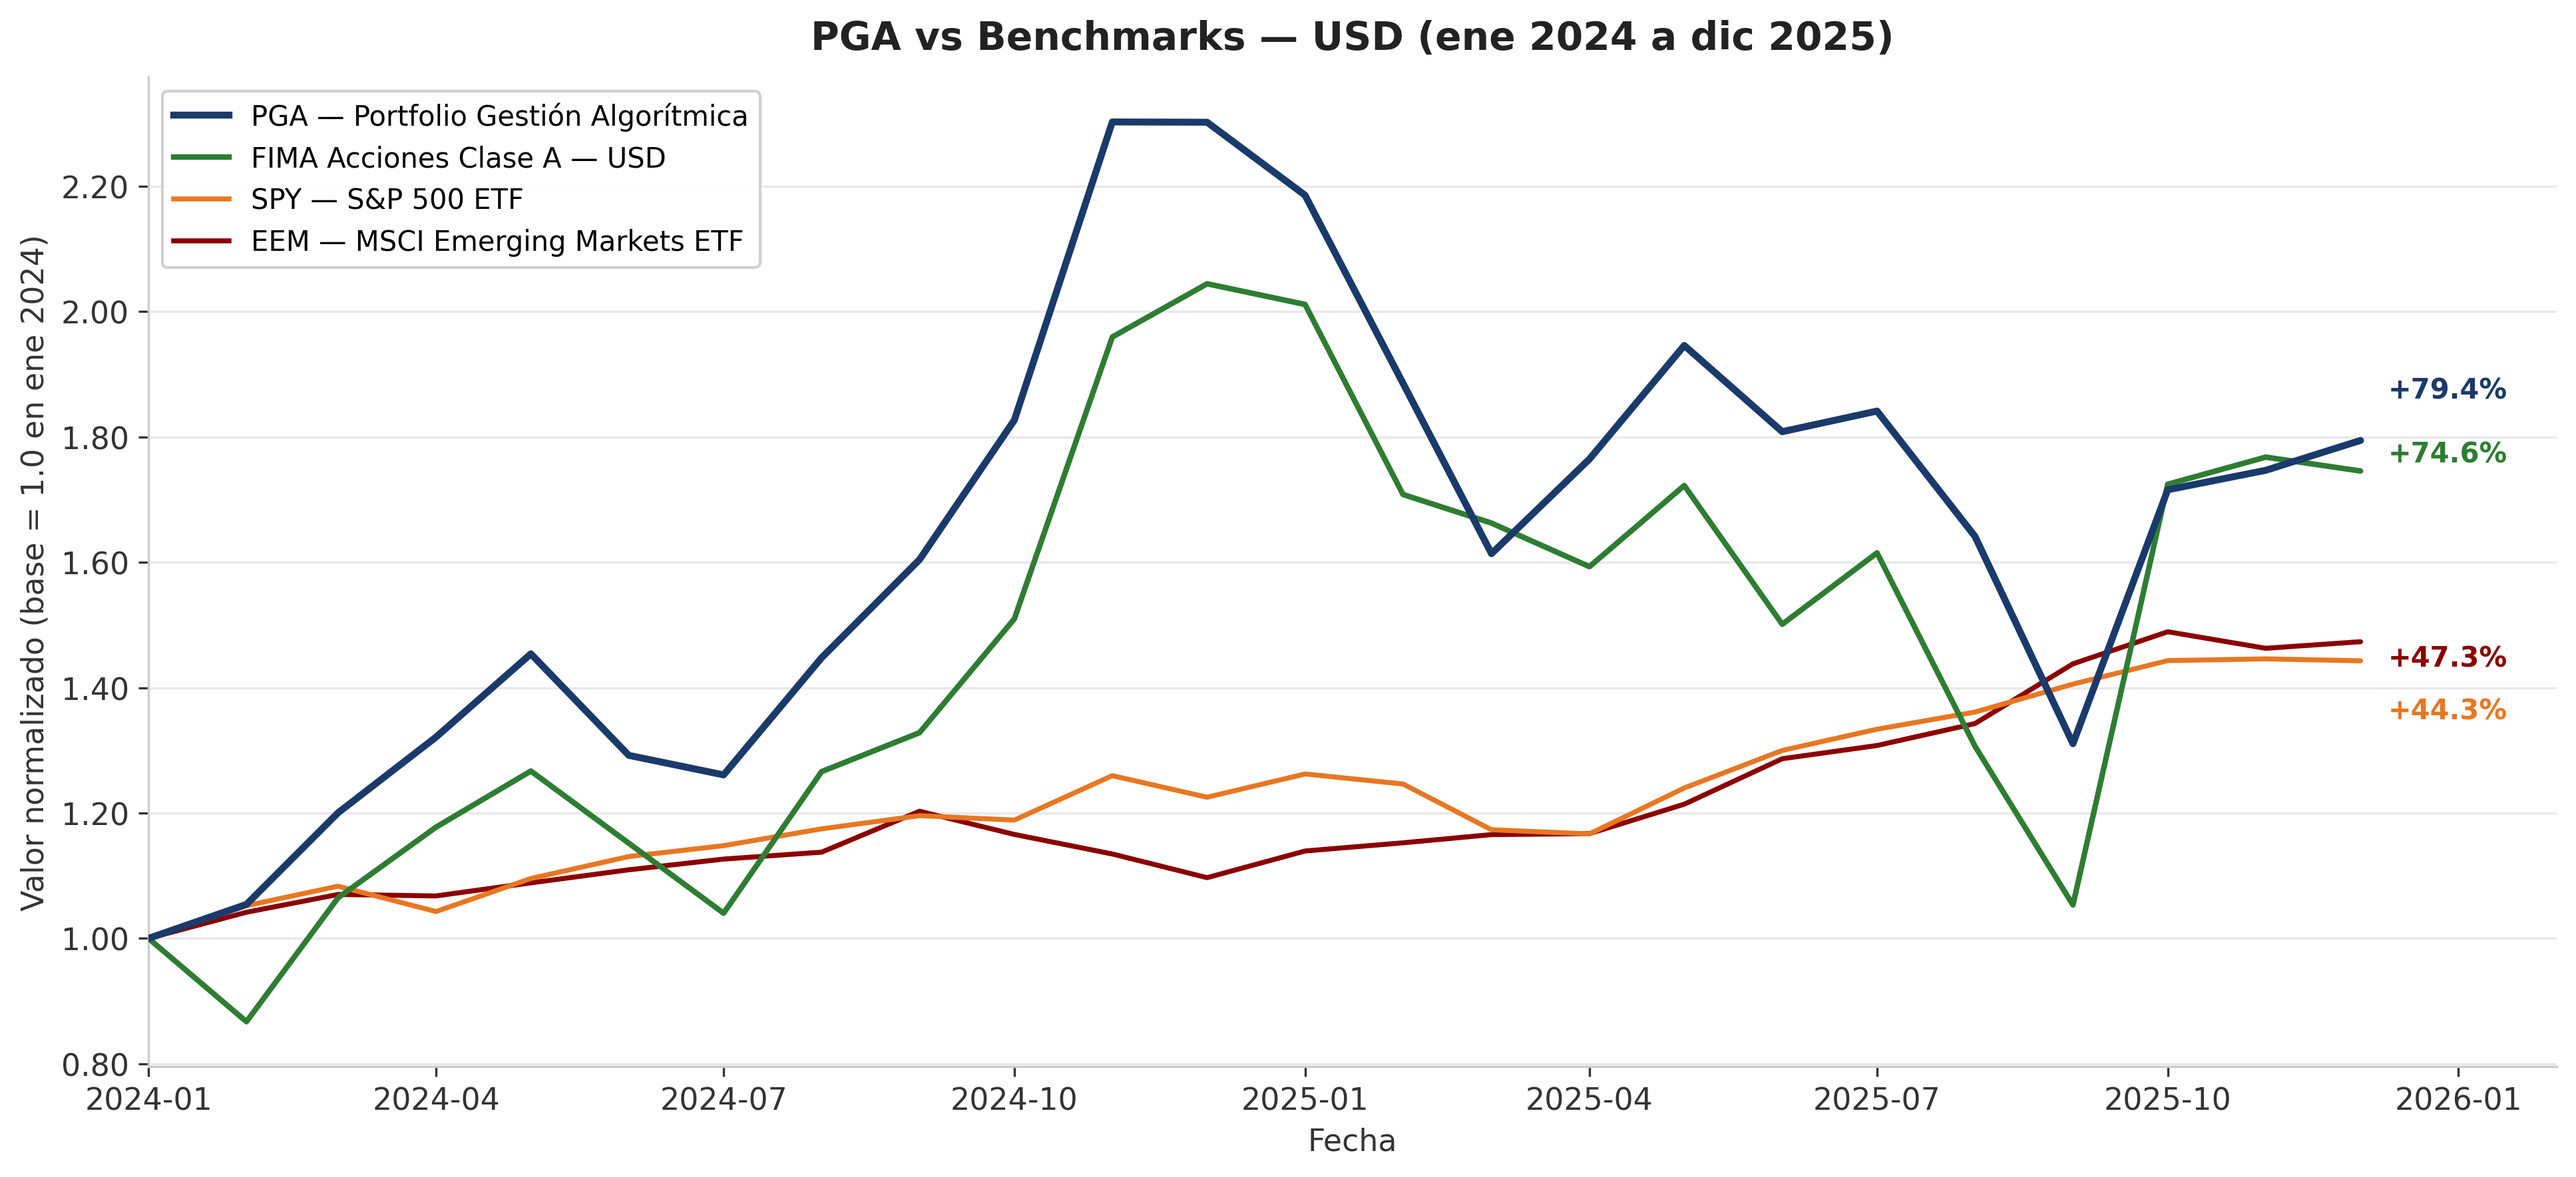
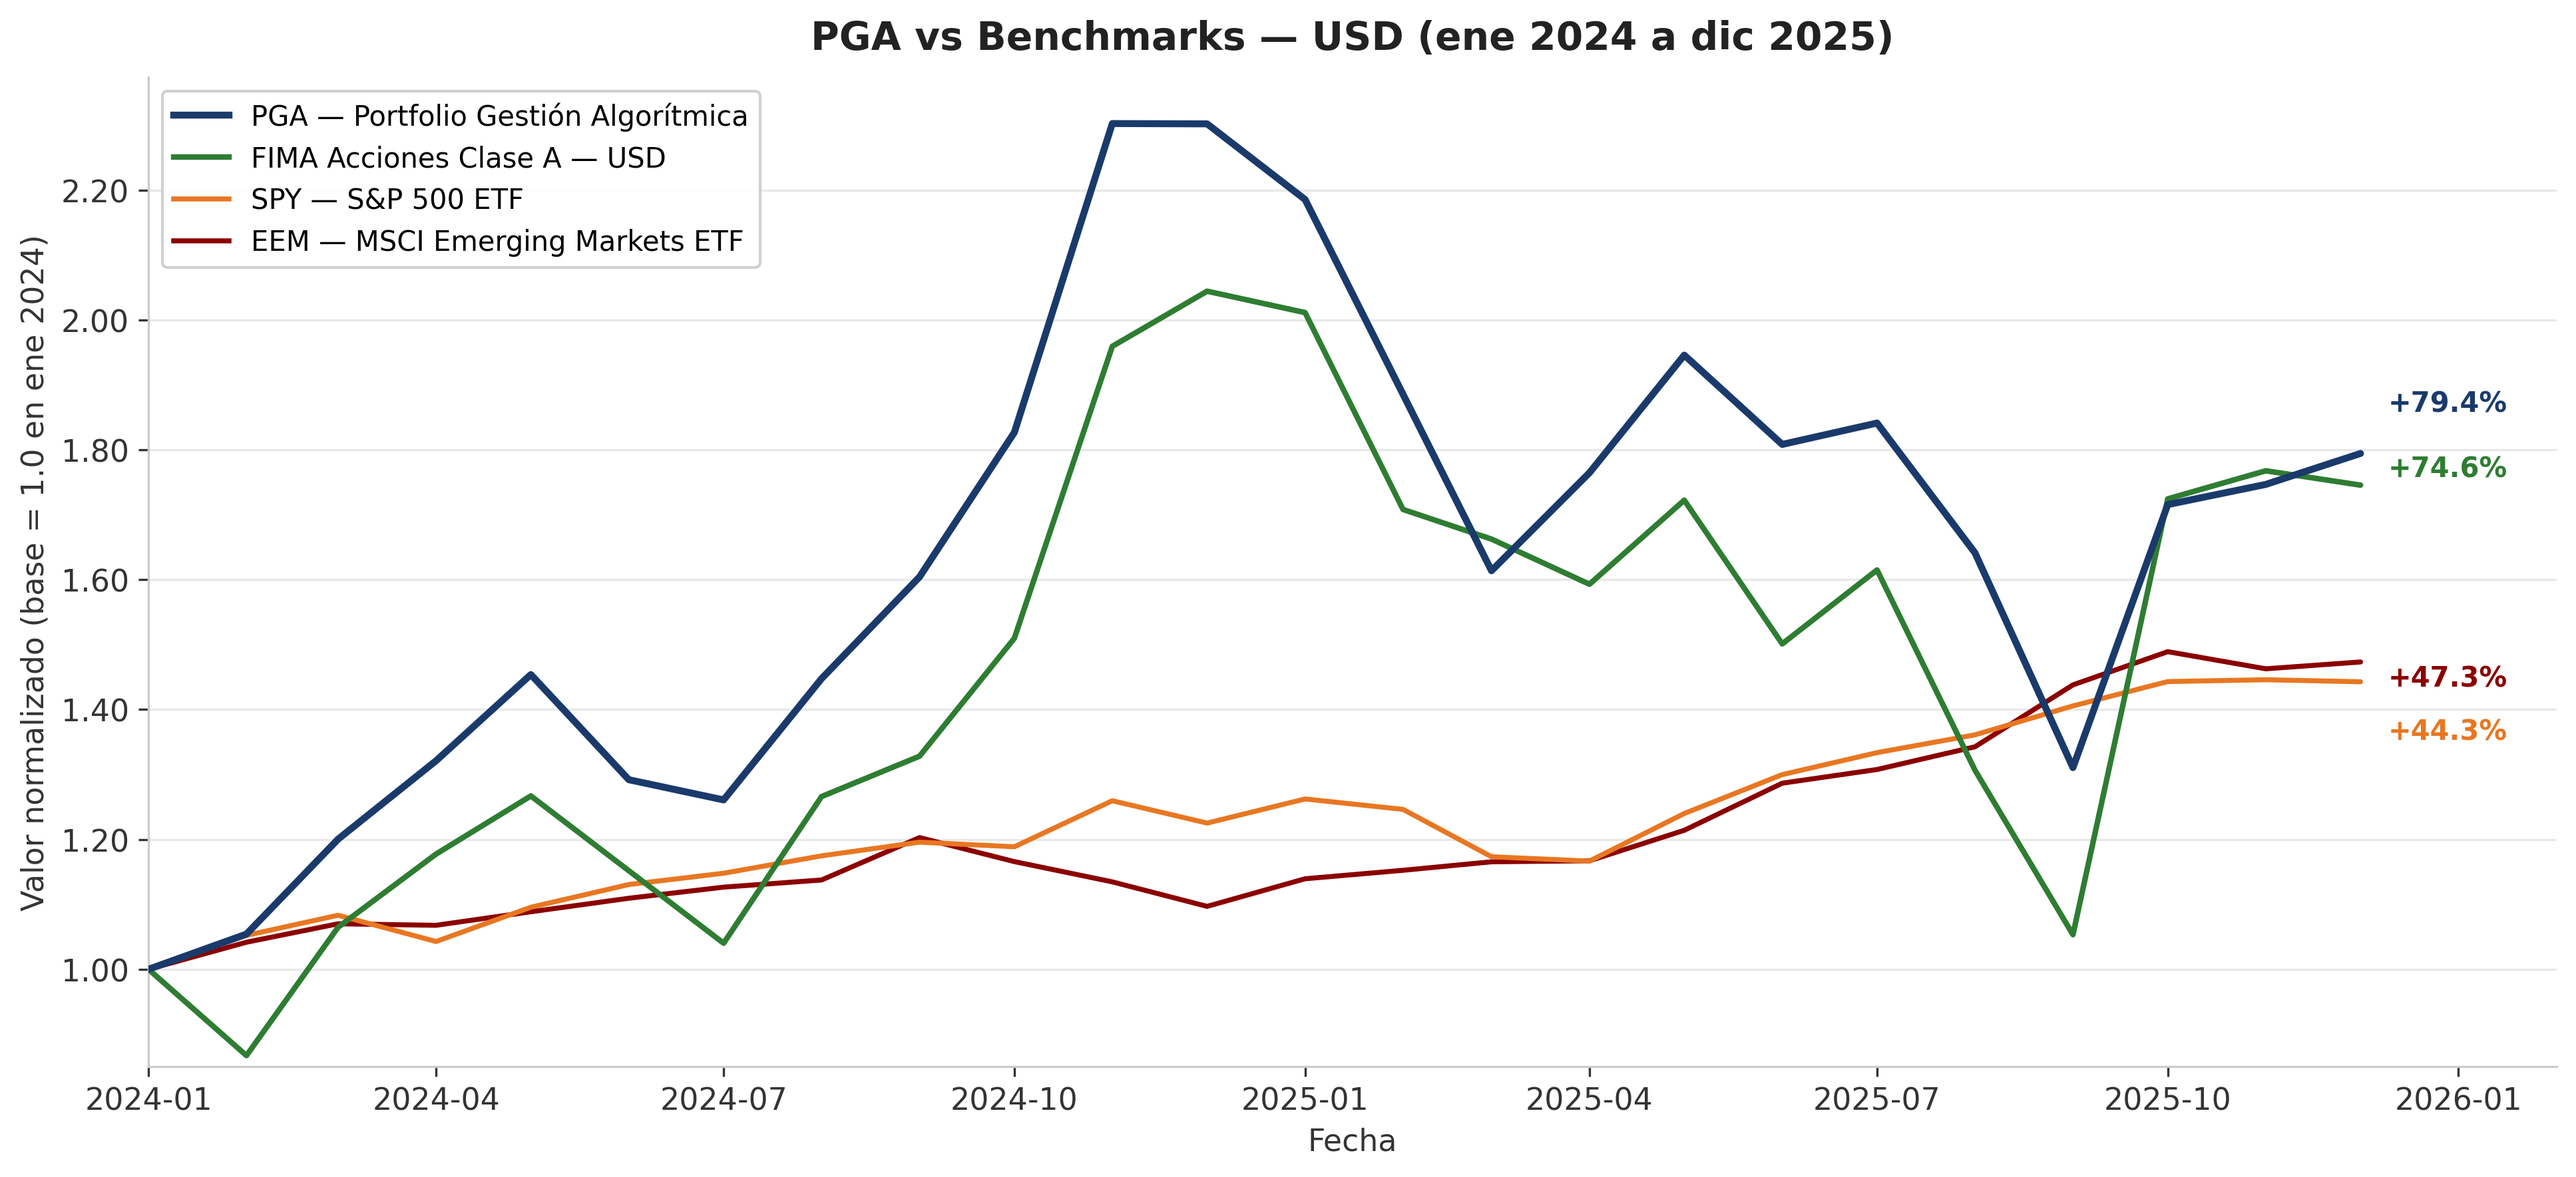
+figures equity curves

diff --git a/src/metrics/visualizer.py b/src/metrics/visualizer.py
@@ -197,19 +197,77 @@ def _apply_academic_style(ax: plt.Axes) -> None:
     ax.figure.set_facecolor("white")
 
 
+# ─── Paleta definitiva ────────────────────────────────────────────────────────
+PALETTE: dict[str, str] = {
+    "pga":  "#1a3a6b",   # azul oscuro
+    "fima": "#e8751a",   # naranja
+    "spy":  "#8b1a1a",   # rojo vino
+    "eem":  "#2e6b3e",   # verde oscuro
+}
+
+_DEC2024_LINE = pd.Timestamp("2025-01-01")   # separador visual 2024 | 2025
+
+
 def _apply_chart_style(ax: plt.Axes, title: str) -> None:
     """
-    Canonical academic chart style for all paper figures.
+    Estilo base definitivo para todos los gráficos del paper.
 
-    Applies spine removal, soft grid, white background, and sets title.
-    All new figures should call this instead of _apply_academic_style.
+    Tipografía Arial, fondo blanco, grilla horizontal suave,
+    sin bordes superior/derecho. Llamar siempre antes de plotear datos.
     """
+    import matplotlib
+    matplotlib.rcParams["font.family"] = "Arial"
+
+    ax.set_facecolor("#ffffff")
+    ax.figure.set_facecolor("#ffffff")
+
     ax.spines["top"].set_visible(False)
     ax.spines["right"].set_visible(False)
     ax.spines["left"].set_color("#cccccc")
     ax.spines["bottom"].set_color("#cccccc")
+
     ax.tick_params(axis="both", labelsize=11, colors="#333333")
-    ax.grid(axis="y", color="#e8e8e8", linewidth=0.8, linestyle="-", zorder=0)
-    ax.set_facecolor("white")
-    ax.figure.set_facecolor("white")
-    ax.set_title(title, fontsize=14, fontweight="bold", color="#222222", pad=10)
+    ax.grid(axis="y", color="#e0e0e0", linewidth=0.5, linestyle="-", zorder=0)
+    ax.grid(axis="x", visible=False)
+
+    ax.set_title(title, fontsize=14, fontweight="bold", color="#222222",
+                 fontfamily="Arial", pad=10)
+
+
+def _add_period_bands(
+    ax: plt.Axes,
+    *,
+    x_label_2024: pd.Timestamp | None = None,
+    x_label_2025: pd.Timestamp | None = None,
+) -> None:
+    """
+    Agrega bandas sombreadas 2024/2025, etiquetas de período y línea
+    separadora en diciembre 2024. Llamar DESPUÉS de plotear los datos.
+
+    x_label_2024 / x_label_2025: posición X de las etiquetas de período.
+        Por defecto: centro de cada año (2024-07-01 y 2025-07-01).
+        Pasar un Timestamp custom para evitar solapamiento con leyendas.
+    """
+    from matplotlib.transforms import blended_transform_factory
+
+    if x_label_2024 is None:
+        x_label_2024 = pd.Timestamp("2024-07-01")
+    if x_label_2025 is None:
+        x_label_2025 = pd.Timestamp("2025-07-01")
+
+    # Bandas de color muy suave
+    ax.axvspan(pd.Timestamp("2024-01-01"), pd.Timestamp("2024-12-31"),
+               color="#1a3a6b", alpha=0.06, zorder=0, lw=0)
+    ax.axvspan(pd.Timestamp("2025-01-01"), pd.Timestamp("2025-12-31"),
+               color="#e8751a", alpha=0.06, zorder=0, lw=0)
+
+    # Etiquetas de período en la parte superior del área del gráfico
+    trans = blended_transform_factory(ax.transData, ax.transAxes)
+    for label, x_mid in [("2024", x_label_2024), ("2025", x_label_2025)]:
+        ax.text(x_mid, 0.975, label, transform=trans,
+                ha="center", va="top", fontsize=10,
+                color="#888888", fontfamily="Arial", zorder=5)
+
+    # Línea separadora diciembre 2024 / enero 2025
+    ax.axvline(_DEC2024_LINE, color="#888888", linewidth=1.0,
+               linestyle="-", alpha=0.6, zorder=3)
